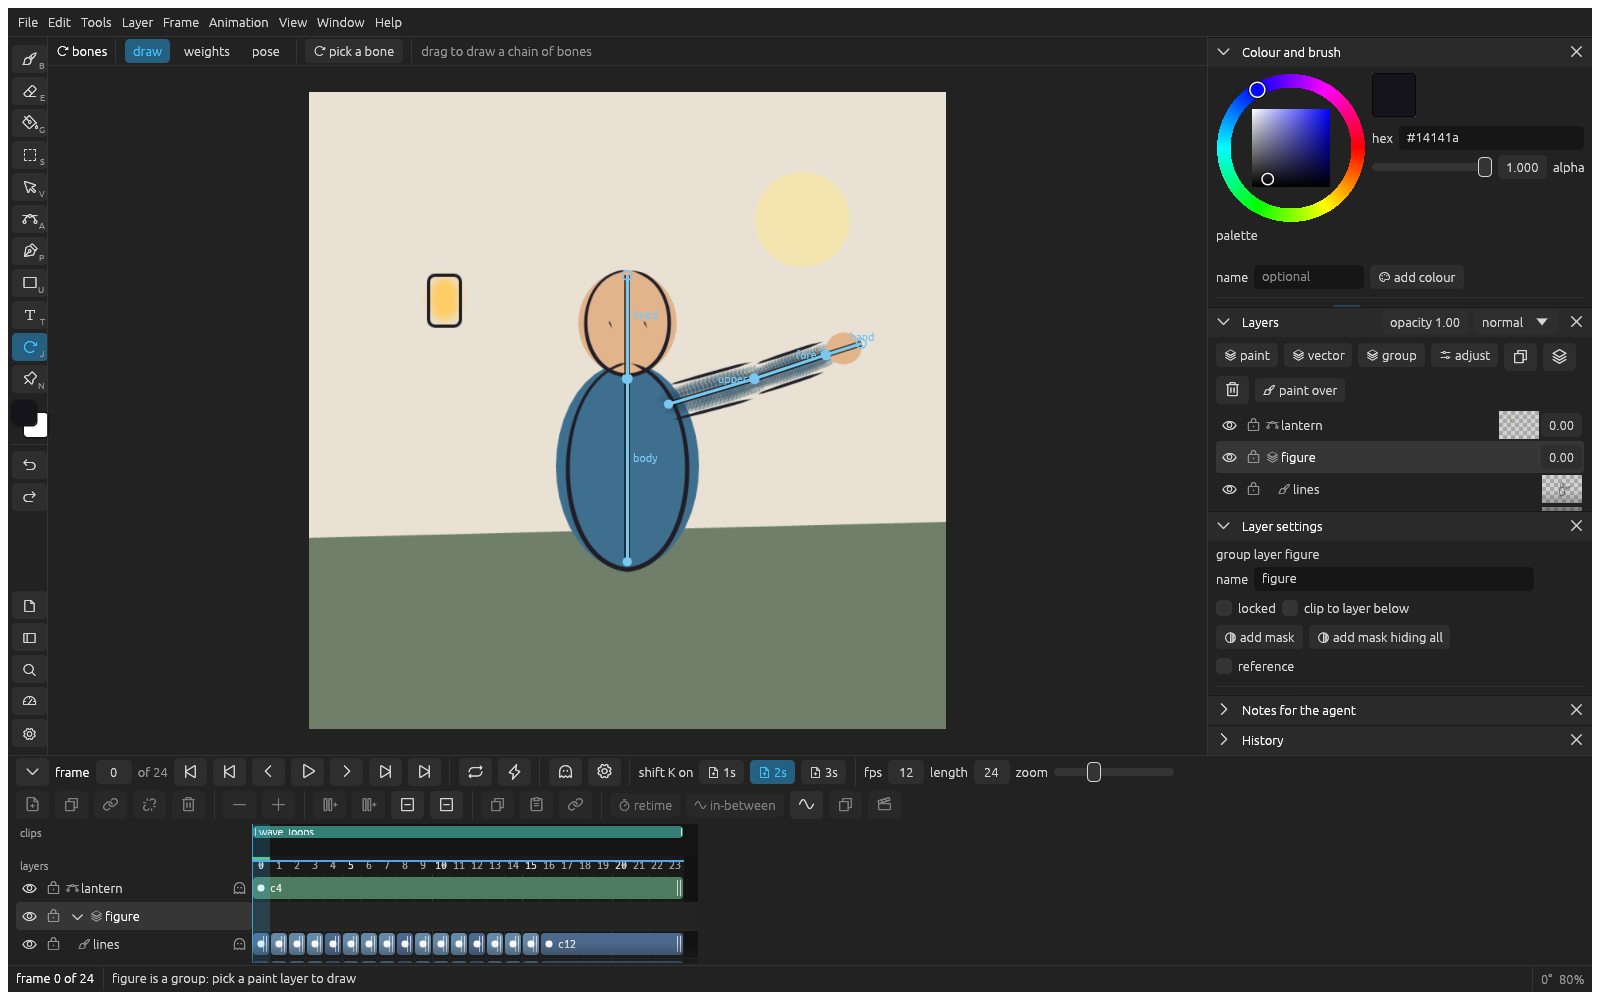
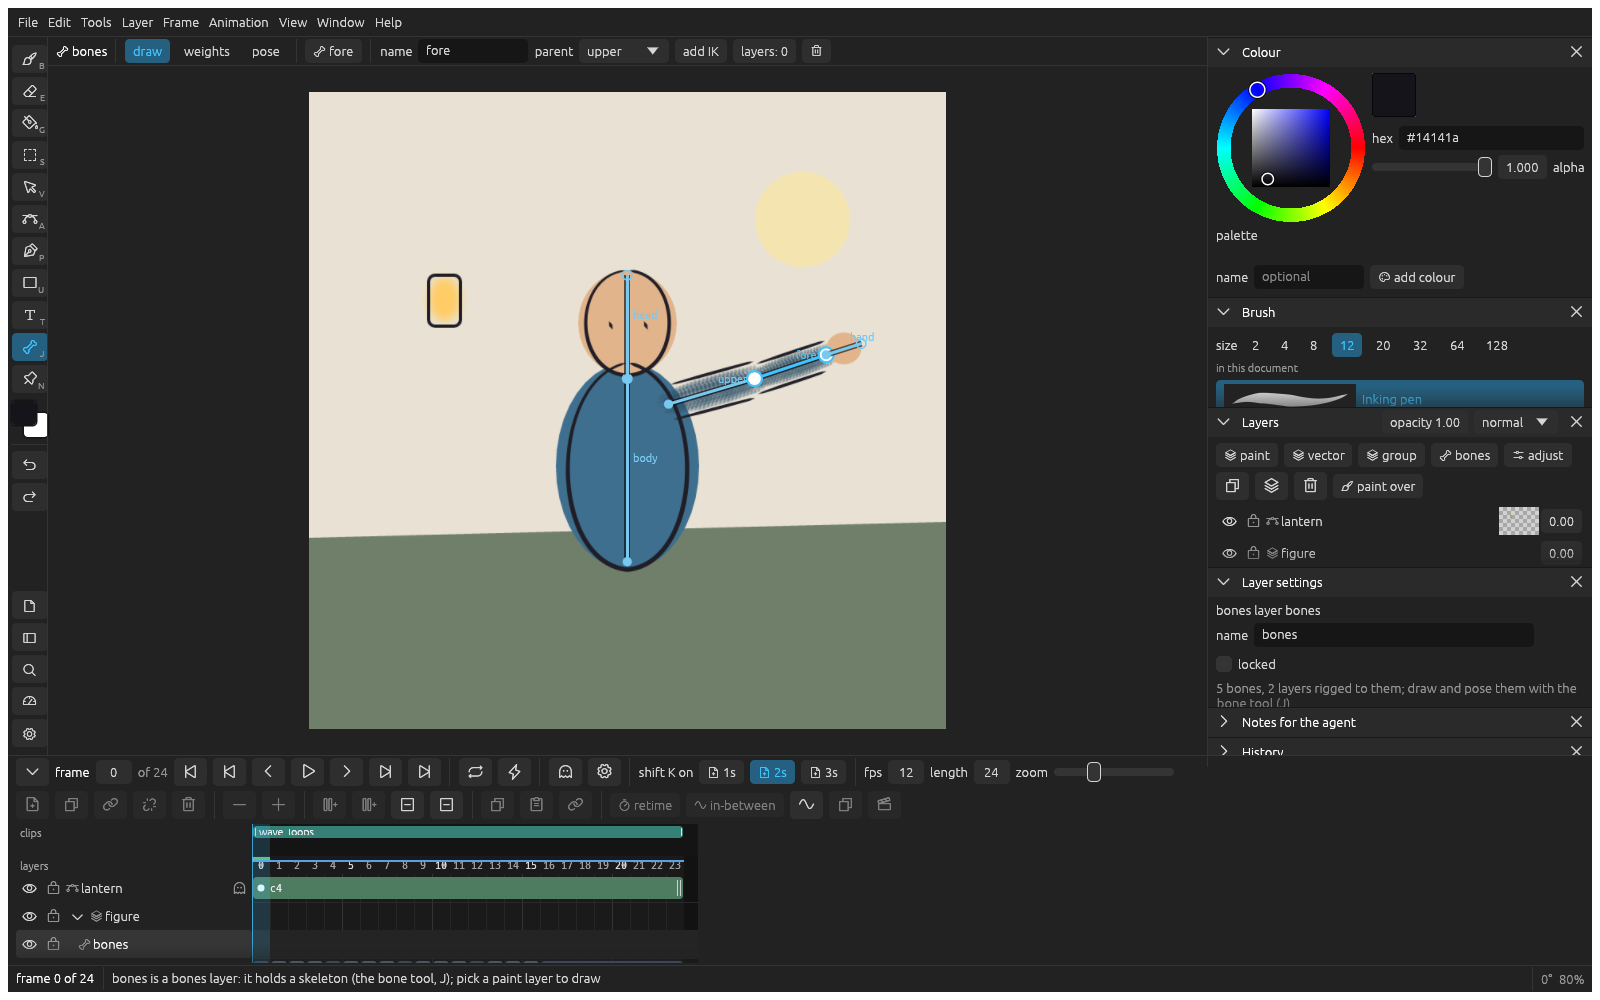
Bones guide: the bones layer workflow, for someone new to klad
Kevin: bring the posing guide up to date and explain the workflow for
anyone new. The page still put the skeleton on a group. Now: make a
bones layer, draw the chain from the hips out, attach each stiff part's
layer to its bone, optionally bend a layer across a joint with weights,
pose (live) and keep it with make this pose a drawing, IK for a leg,
and two troubles people hit (a layer not rigged; a chain started at the
head). Written in the short-guides style; the same page goes on
docs/short-guides so that merge stays clean. Every label checked in the
source.

The picture is rendered again from the rig sample, the bone tool on its
bones layer with the forearm picked. A bones layer's settings now show
its bone and rigged-layer counts instead of clip and mask, which mean
nothing for a layer that draws nothing.

Claude-Session: https://claude.ai/code/session_015pzeUrCbCb8QMoMieu4wph

diff --git a/crates/app/src/editor.rs b/crates/app/src/editor.rs
@@ -4072,6 +4072,18 @@ impl Editor {
                 props.push(("name".into(), json!(name)));
             }
         });
+        if layer.kind() == Kind::Bones {
+            self.command_check(ui, Cmd::ToggleLocked, "locked");
+            let linked = klad_core::rig::painted(&self.scene.bundle.doc, &id).len();
+            ui.label(
+                egui::RichText::new(format!(
+                    "{} bones, {linked} layers rigged to them; draw and pose them with the bone tool (J)",
+                    layer.bones.len()
+                ))
+                .color(crate::theme::WEAK),
+            );
+            return self.set(&id, props);
+        }
         ui.horizontal_wrapped(|ui| {
             self.command_check(ui, Cmd::ToggleLocked, "locked");
             self.command_check(ui, Cmd::ToggleClip, "clip to layer below");

diff --git a/crates/app/src/editor/ui_tests.rs b/crates/app/src/editor/ui_tests.rs
@@ -4200,7 +4200,11 @@ fn guide_pictures() {
             ed.go_to(16)?;
             ed.invoke(Cmd::Onion)
         }),
-        ("bones", "rig/rig.klad", "figure", |ed| ed.invoke(Cmd::BoneTool)),
+        ("bones", "rig/rig.klad", "bones", |ed| {
+            ed.invoke(Cmd::BoneTool)?;
+            ed.pick_bone(Some("fore".into()));
+            Ok(())
+        }),
         ("brush", "lemons/lemons.klad", "lemon-a", |ed| {
             ed.pick("oil");
             ed.invoke(Cmd::BrushWindow)

diff --git a/docs/guide/bones.md b/docs/guide/bones.md
@@ -1,27 +1,48 @@
+_Last updated: 2026-11-08_
+
 # Posing with bones
 
-Instead of redrawing a character on every frame, you can draw it once, give it a skeleton and pose it. The skeleton belongs to a layer or a group, and moves every layer in that group together.
+Draw a character once, give it a skeleton and pose it on each frame instead of redrawing it. The skeleton goes on a bones layer of its own, and you tell each drawing layer which bone moves it.
 
-![The rig sample's skeleton in the bone tool](../images/guide-bones.png)
+![The rig sample's skeleton in the bone tool, with the forearm bone picked](../images/guide-bones.png)
 
 ## Draw a skeleton
 
-1. Put the character's layers (lines, colour, shading) in a group and make the group the active layer.
-2. Press J for the bone tool, with "draw" picked in the bar over the canvas.
-3. Drag on empty canvas to draw the first bone. The chain carries on from its end: each click adds the next bone, and Esc ends the chain.
+1. Click **Layer > New bones layer**.
+2. Press **J** and pick **draw** in the bar over the canvas.
+3. Drag from the hips to draw the first bone, click to add the next one, and press **Esc** to end the chain.
 
-Drag a bone's end or middle to move it, and alt drag from a bone's end to start a child chain there. The skeleton list in the bar picks a bone by name, renames it (Return keeps the name) and changes the bone it hangs from.
+Each bone hangs from the one before it, and turning a bone turns everything that hangs from it, so start in the middle of the body and work outwards. Alt drag from a bone's end to start a branch there, such as an arm off the spine.
 
-## Paint how much each bone moves the drawing
+## Attach the drawing to the bones
 
-Switch to "weights". "automatic weights" gives every bone a first set of weights by distance. Cmd click a bone to pick it, then paint its weight onto the drawing: size sets the brush's radius and weight how much each dab gives, and alt paints the weight away. "smooth" blurs every bone's weights a little. Hold rigid things, like a head or a hand, with full weight on one bone, so they don't bend.
+Draw each part that stays stiff, like an upper arm, a forearm or the head, on its own paint layer. The layers can sit anywhere in the layers panel.
+
+1. In **draw**, click a bone to pick it.
+2. Open **layers: 0** and tick the layers that move with that bone.
+
+## Bend a layer across a joint
+
+Optional, for a part drawn in one piece over a joint, like a sleeve or a tail.
+
+1. In the layers panel, click the layer's bone button and pick **bends with bones**.
+2. Pick **weights** in the bar and click **automatic weights**.
+3. Cmd click a bone, then paint where it should move the drawing. Alt paints weight away.
 
 ## Pose it
 
-Switch to "pose", go to a frame and drag a bone's end to turn it; its children follow. "make this pose a drawing" bends the drawing on this frame into the pose, and "back to rest" drops the turns, the move and the targets of this pose. Poses of the same drawing in-between on the bones ([Animating](animating.md)), so a limb swings around its joint instead of sliding.
+1. Go to a frame and pick **pose**.
+2. Drag a bone's end to turn it. The drawing turns with it as you drag.
+3. Click **make this pose a drawing** to keep the pose on this frame.
 
-## Let a limb reach (IK)
+Nothing is kept until you click it. Poses in-between on the bones ([Animating](animating.md)), so a limb swings around its joint instead of sliding.
 
-Pick the lower bone of a limb, say a shin, and click "make it a limb with" its parent. In pose mode, dragging the shin's end now turns both bones so the end reaches where you drag, bending the way the leg is drawn, or the other way if you switch it to bend clockwise or counterclockwise. Softness keeps the knee from snapping straight near full reach. "make it an aim" turns one bone alone to point at the target instead. For a pose where you'd rather turn the bones by hand, switch the limb off for that pose, or hold alt while you drag.
+## Let a leg reach
 
-A planted foot is a target that stays where it is while the body moves, which is most of a walk cycle.
+1. In **draw**, pick the shin, open **add IK** and click **make it a limb with thigh**.
+2. In **pose**, drag the shin's end. Both bones turn so the foot lands where you drag.
+
+## If a part doesn't move
+
+- **Turning a bone moves nothing:** the layer isn't rigged. Its bone button in the layers panel is grey; attach it to a bone.
+- **Turning the head turns the whole body:** the chain started at the head, so everything hangs from it. In **draw**, pick the head bone and set its **parent** to the neck or the body.
